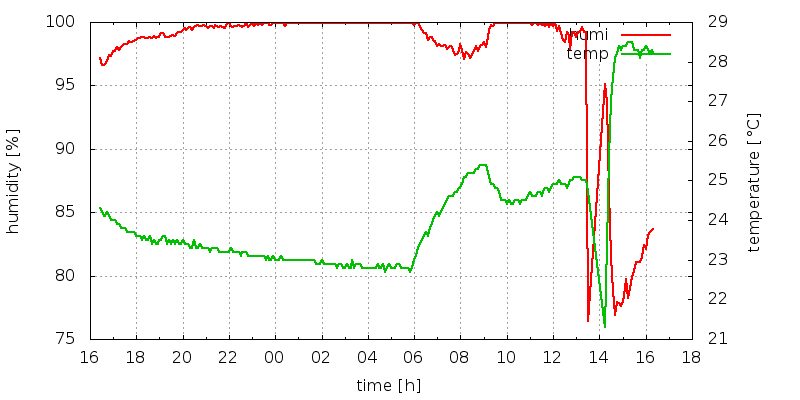
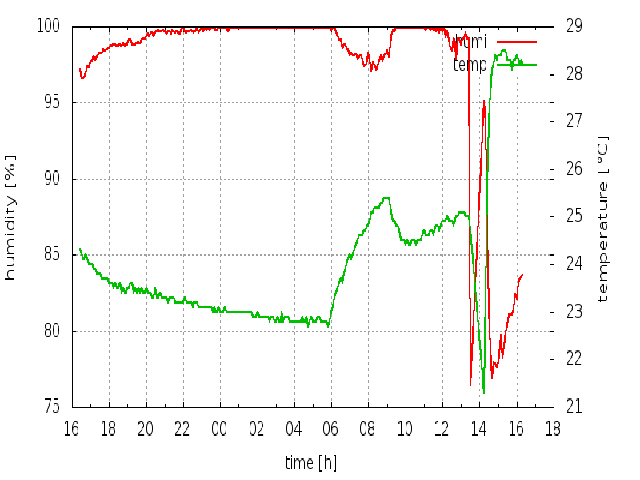
changed images size - wide layout

diff --git a/www/index.html b/www/index.html
@@ -1,9 +1,10 @@
 <!DOCTYPE html>
 <html>
+
 <head>
   <meta charset="utf-8" />
   <title>Semínka papriček</title>
-  <script type="text/javascript" src="http://code.jquery.com/jquery-latest.min.js"></script>
+  <!--<script type="text/javascript" src="http://code.jquery.com/jquery-latest.min.js"></script>
   <!--[if lt IE 9]>
     <script src="http://html5shiv.googlecode.com/svn/trunk/html5.js"></script>
   <![endif]-->
@@ -13,12 +14,20 @@
   <link rel="stylesheet" type="text/css" href="style.css" media="screen" />
   <link rel="shortcut icon" href="chilli.ico" />
 </head>
+
 <body>
 
+	<header>
+	<h1 align='center'>Kterak se mají naše semínka ...</h1>
+	</header>
+
 	<article>
-	<img src="humi.png" alt="Graf teploty a vlhkosti v pařníčku">
-	<img src="chilli.jpg" alt="Jak to v pařníčku aktuálně vypadá ...">
+		<div>
+			<img class="left" src="humi.png" alt="Graf teploty a vlhkosti v pařníčku">
+			<img class="right" src="chilli.jpg" alt="Jak to v pařníčku aktuálně vypadá ...">
+		</div>
 	</article>
 
 </body>
+
 </html>

diff --git a/www/style.css b/www/style.css
@@ -2,7 +2,21 @@ body {
 	margin-left: auto;
 	margin-right: auto;
 	margin-top: 0;
-	width: 800px;
+	width: 1300px;
 	font-family: Verdana, Arial, sans-serif;
 	font-size: .8em;
+}
+
+h1 {
+	text-align = center;
+}
+
+img.left {
+	position = relative;
+	left = 0;
+}
+
+img.right {
+	position = relative;
+	right = 0;
 }
